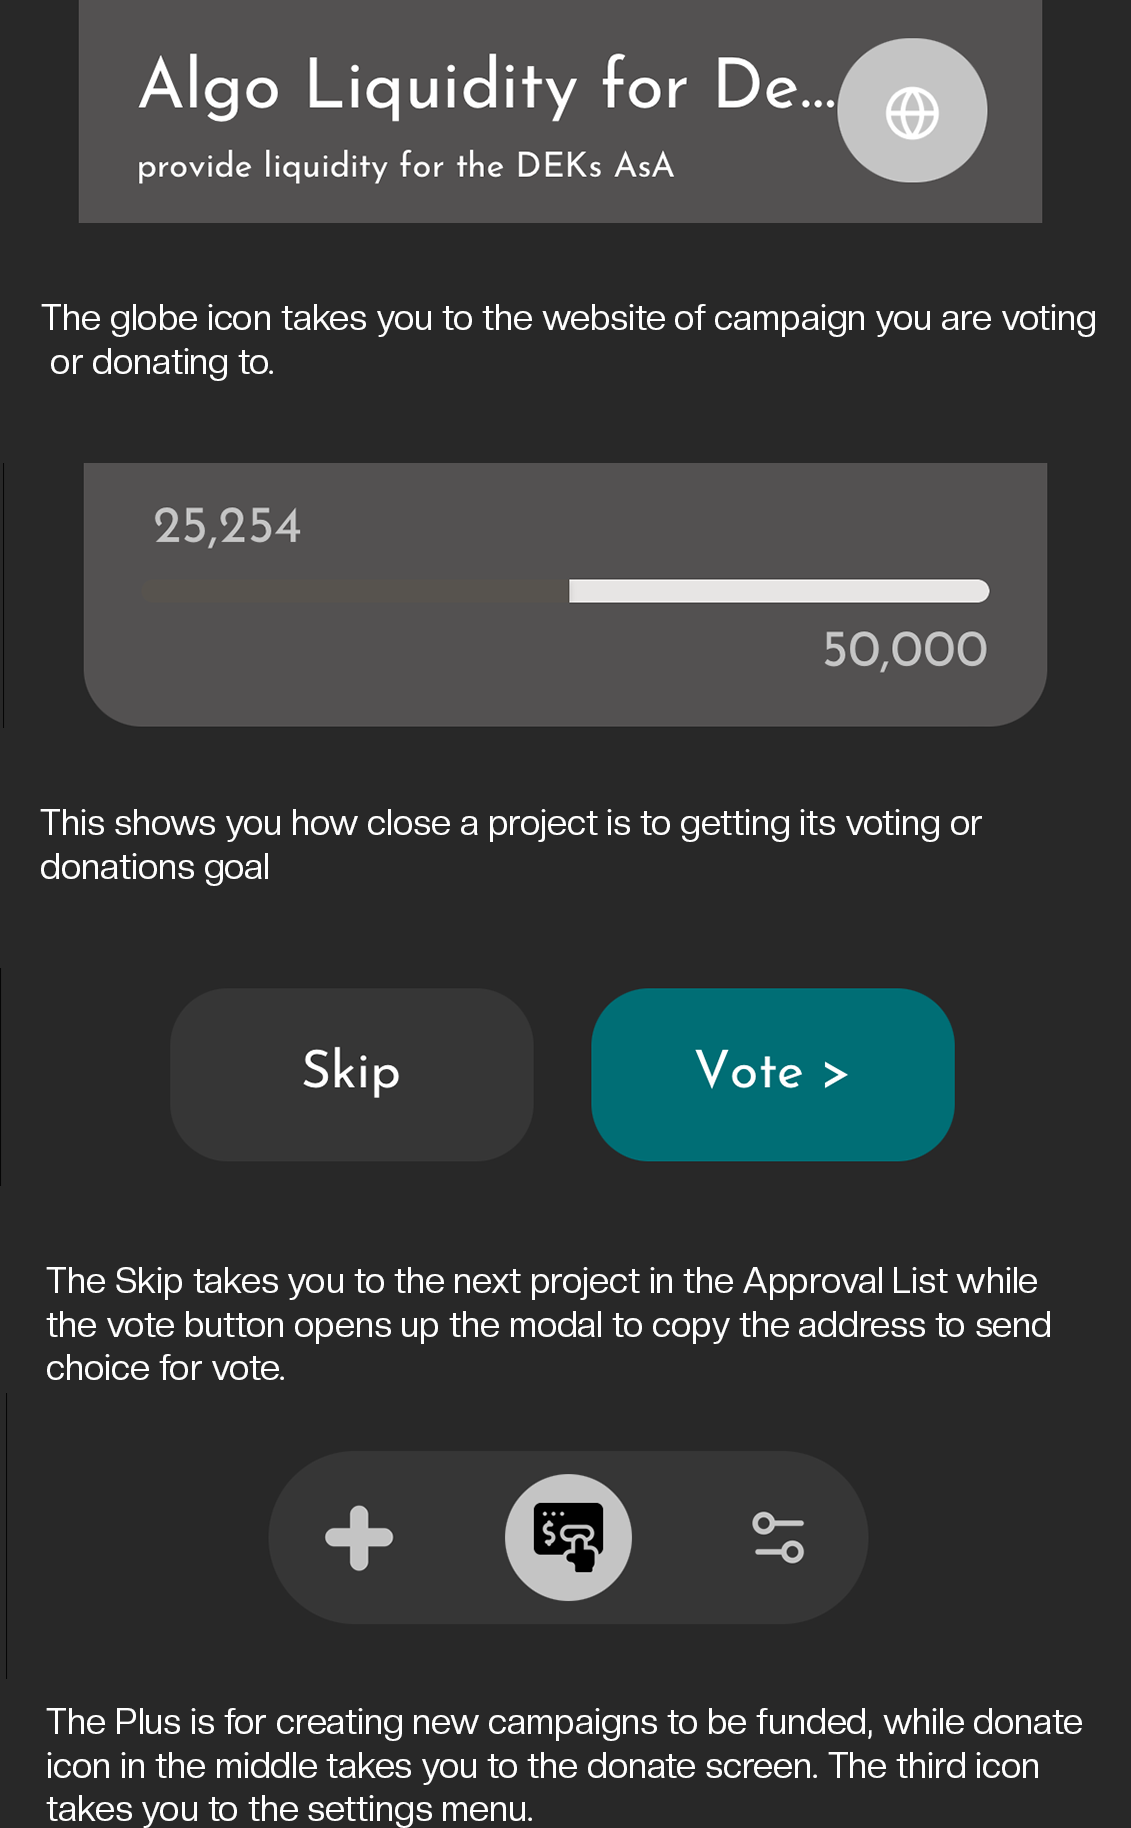
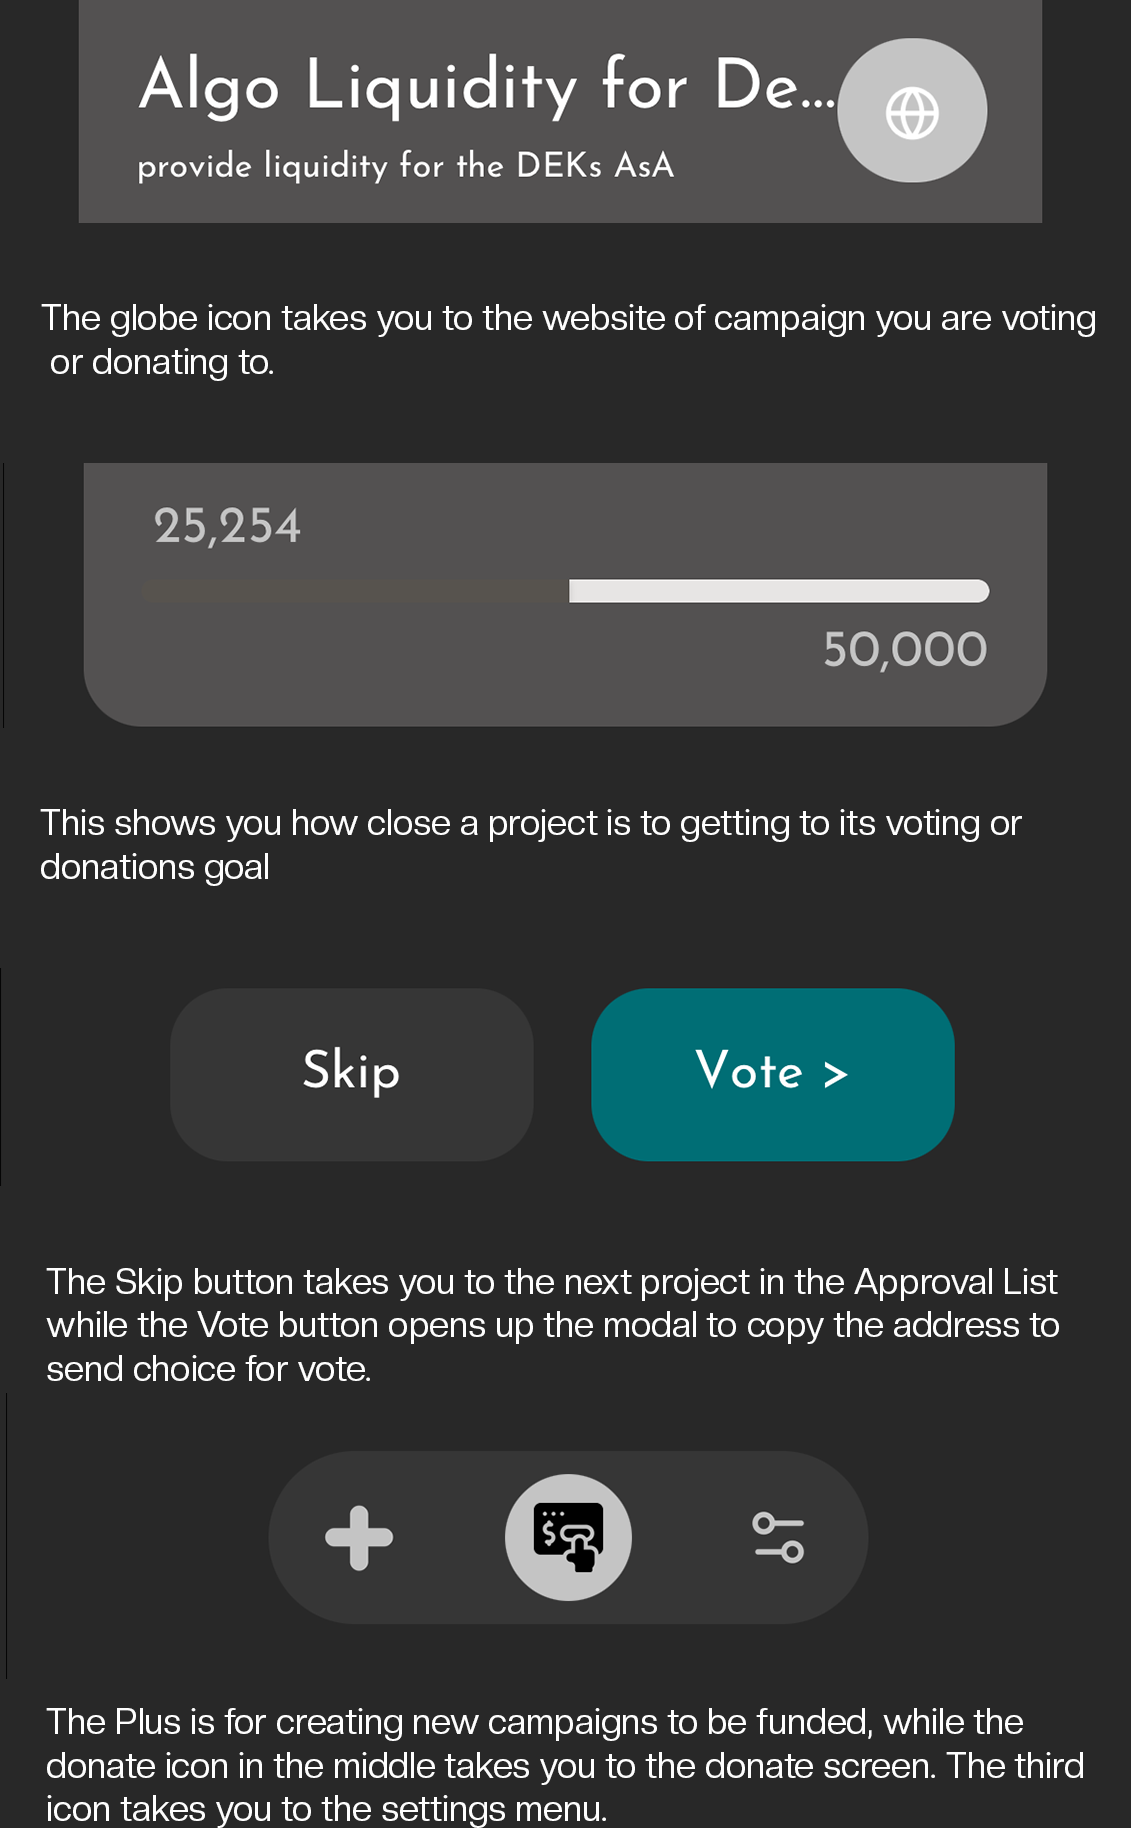
updates to UI

diff --git a/src/modes/anonymous/Donate/index.js b/src/modes/anonymous/Donate/index.js
@@ -112,9 +112,7 @@ function AnonymousDonate({ navigation }) {
           style={{
             width: 70,
             height: 282,
-            shadowRadius: 15,
-            shadowColor: colors.grey,
-            elevation: 5,
+            elevation : 5,
             backgroundColor: "#7C7C7C",
             alignSelf: "center",
             borderRadius: 99,
@@ -151,7 +149,13 @@ function AnonymousDonate({ navigation }) {
           >
             <Image source={approval} width={6} height={6} alt={"Icon"}></Image>
           </TouchableOpacity>
-          <TouchableOpacity>
+          <TouchableOpacity onPress={
+            ()=>{
+              toast.show({
+                description: "Create A Campaign feature coming soon!",
+              });
+            }
+          }>
             <Image source={plus} width={6} height={6} alt={"Icon"}></Image>
           </TouchableOpacity>
           <TouchableOpacity
@@ -160,8 +164,13 @@ function AnonymousDonate({ navigation }) {
               padding: 10,
               borderRadius: 99,
             }}
-            onPress={null}
-          >
+            onPress={
+              ()=>{
+                toast.show({
+                  description: "Search feature coming soon!",
+                });
+              }
+            }          >
             <Image source={Search} width={6} height={6} alt={"Icon"}></Image>
           </TouchableOpacity>
           <TouchableOpacity
@@ -185,8 +194,6 @@ function AnonymousDonate({ navigation }) {
           style={{
             width: 60,
             height: 60,
-            shadowRadius: 15,
-            shadowColor: colors.darkgrey,
             elevation: 5,
             backgroundColor: colors.darkgrey,
             borderRadius: 99,
@@ -217,7 +224,7 @@ function AnonymousDonate({ navigation }) {
       }}
     >
       <ScrollView>
-        <VStack w={"100%"} h={"100%"} pt={10} space={3}>
+        <VStack w={"100%"} h={"100%"} pt={10} space={3} mb={110}>
           <Text
             mx={7}
             color={colors.white}
@@ -313,4 +320,3 @@ function AnonymousDonate({ navigation }) {
 }
 
 export default AnonymousDonate;
-

diff --git a/src/globalComponents/infoBox/NameBox.js b/src/globalComponents/infoBox/NameBox.js
@@ -1,4 +1,5 @@
 import React from "react";
+import { TouchableOpacity, Linking } from 'react-native';
 import { Box, HStack, Text, VStack, Image } from "native-base";
 import colors from "../../utils/colors";
 import FastImage from "react-native-fast-image";
@@ -11,19 +12,17 @@ function NameBox(props) {
 
   return (
     <>
-      <VStack backgroundColor={colors.grey} borderRadius={"20"}>
+      <VStack backgroundColor={colors.grey} borderRadius={"20"} shadow={5}>
         <FastImage
           style={{ height: 350, borderRadius: 20, borderTopRightRadius: 20 }}
           source={{ uri: props.img }}
         />
         <HStack px={5} pt={4} justifyContent={"space-between"}>
-          <VStack>
+          <VStack mr={2} ml={-2}>
             <Text
               color={colors.white}
               fontSize={"24"}
               fontFamily={"JosefinSans-Bold"}
-              isTruncated
-              maxW="250"
             >
               {props.name}
             </Text>
@@ -38,14 +37,21 @@ function NameBox(props) {
               {props.slogan}
             </Text>
           </VStack>
+          <TouchableOpacity
+           onPress={() => {
+            Linking.openURL("https://" + props.slogan).catch(
+              (error) => toast.show({ description: error })
+            );
+          }}>
           <Box
             borderRadius={99}
-            h={50}
+            size={10}
             backgroundColor={colors.lightgrey}
-            padding={4}
+            padding={3}
           >
-            <Image width={5} height={5} source={globeImg} alt={"Website"} />
+            <Image width={4} height={4} source={globeImg} alt={"Website"} />
           </Box>
+          </TouchableOpacity>
         </HStack>
         <ProgressBox progress={props.balance} goal={props.goal} prefix={""} />
       </VStack>

diff --git a/src/modes/anonymous/Approval/index.js b/src/modes/anonymous/Approval/index.js
@@ -85,6 +85,7 @@ function AnonymousApproval({ navigation }) {
                   img={item.photo_url}
                   balance={item.balance}
                   goal={item.cause_approval.goal}
+                  website={item.long_description}
                 />
                 <HStack
                   justifyContent={"center"}
@@ -93,7 +94,7 @@ function AnonymousApproval({ navigation }) {
                 >
                   <TouchableOpacity
                     style={{
-                      backgroundColor: colors.darkgrey,
+                      backgroundColor: colors.grey,
                       height: 60,
                       width: 126,
                       borderRadius: 20,
@@ -154,7 +155,7 @@ function AnonymousApproval({ navigation }) {
         }}
       >
         <ScrollView>
-          <VStack w={"100%"} h={"100%"} pt={45} space={3}>
+          <VStack w={"100%"} h={"100%"} pt={45} space={3} mb={110}>
             <Text
               mx={7}
               color={colors.white}
@@ -253,12 +254,20 @@ function AnonymousApproval({ navigation }) {
           borderRadius: 99,
           position: "absolute",
           bottom: 50,
+          elevation:5,
           flexDirection: "row",
           justifyContent: "space-around",
           alignItems: "center",
         }}
       >
-        <TouchableOpacity>
+        <TouchableOpacity
+        onPress={
+          ()=>{
+            toast.show({
+              description: "Create A Campaign feature coming soon!",
+            });
+          }
+        }>
           <Image source={plus} width={6} height={6} alt={"Icon"}></Image>
         </TouchableOpacity>
         <TouchableOpacity

diff --git a/src/Onboarding/index.js b/src/Onboarding/index.js
@@ -123,8 +123,7 @@ function Onboarding({navigation}) {
           View listed projects.
         </Text>
         <Text color={colors.white} fontFamily={'JosefinSans-Regular'}>
-          If a project reaches its goal. It will be funded, else all funds will
-          be returned to the donors address.
+          If a project reaches its goal, it will be funded. All funds will be returned to the donors adddress if it happens that the project does not reach it's goal.
         </Text>
         <HStack mt={155} alignSelf={'flex-end'}>
           <Dots
@@ -159,6 +158,11 @@ function Onboarding({navigation}) {
         </Text>
         <Text color={colors.white} fontFamily={'JosefinSans-Regular'}>
           Ensure, you opt in to the Choice ASA
+          {'\n'}
+          {'\n'}
+          Testnet ASA ID : 71501663
+          {'\n'}
+          Mainnet ASA ID : 297995609
         </Text>
         <Pressable
           onPress={() => {

diff --git a/src/globalComponents/Options/index.js b/src/globalComponents/Options/index.js
@@ -108,6 +108,7 @@ function Options({ navigation }) {
             <TouchableOpacity
               style={{
                 height: 60,
+                marginBottom: 110,
                 borderRadius: 5,
                 alignItems: "center",
                 justifyContent: "space-between",
@@ -119,7 +120,7 @@ function Options({ navigation }) {
                 );
               }}
             >
-              <HStack alignItems={"center"}>
+              <HStack alignItems={"center"} >
                 <Image width={5} height={5} marginRight={5} source={globe} />
                 <Text
                   fontSize={24}
@@ -143,6 +144,7 @@ function Options({ navigation }) {
       <TouchableOpacity
         style={{
           backgroundColor: colors.darkgrey,
+          elevation : 5,
           position: "absolute",
           right: 20,
           bottom: 20,

diff --git a/src/ProceedWallet/index.js b/src/ProceedWallet/index.js
@@ -103,8 +103,8 @@ function ProceedWallet({ navigation }) {
           fontFamily={"JosefinSans-Regular"}
           color={colors.white}
         >
-          {"\n"}Staying Anonymous, will let you use an external wallet to
-          ssimply send the assets to the generated Addresses
+          {"\n"}Staying Anonymous will let you use an external wallet to
+          simply send the assets to the generated Addresses
         </Text>
       </VStack>
     </ScrollView>
